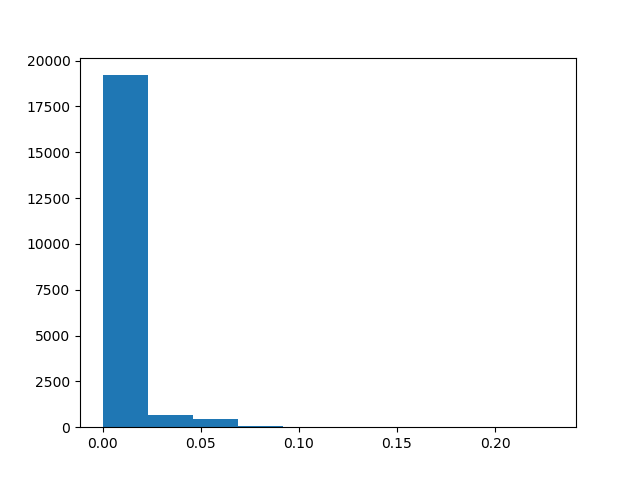
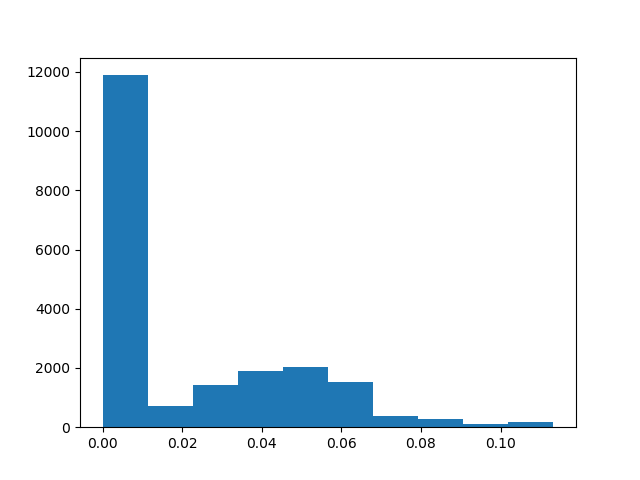
about page modification and changes to contact page

diff --git a/templates/about.html b/templates/about.html
@@ -60,19 +60,53 @@
   </div>
 </nav>
 
-<div style="height: 400px; width: 100%; margin-top:4vh; margin-bottom: 4vh; background: linear-gradient(rgba(0,0,0,0.2), rgba(0,0,0,.0)), url(https://images.unsplash.com/photo-1494506132334-19732cd53b32?ixlib=rb-1.2.1&ixid=eyJhcHBfaWQiOjEyMDd9&auto=format&fit=crop&w=1502&q=80); 	background-size: cover;
+<!-- <div style="height: 400px; width: 100%; margin-top:4vh; margin-bottom: 4vh; background: linear-gradient(rgba(0,0,0,0.2), rgba(0,0,0,.0)), url(https://images.unsplash.com/photo-1494506132334-19732cd53b32?ixlib=rb-1.2.1&ixid=eyJhcHBfaWQiOjEyMDd9&auto=format&fit=crop&w=1502&q=80); 	background-size: cover;
 	background-repeat: no-repeat;
 	background-attachment: scroll;
 	background-position: center;">
-</div>
+</div> -->
+
+<img src = "{{url_for('static', filename='English Copy of Procedure.png')}}" style="width: 100%
+;">
 
 <div class="container-fluid" style="position: relative;">
 	<div class="row">
 		<div class="col-md-12 col_with_bottom_margin_small">
-			<div style="font-size: 4vh" class="col_with_bottom_margin_small">What is ADAGE?</div>
-			<p>ADAGE, or ADaptive Analysis of Genomic Elements, is a method that uses promoter sequences and the chromosomal locations
-				of target genes to identify corresponding transcription factors, key genes that activate these target genes.
-			</p>
+			<b><div style="font-size: 4vh" class="col_with_bottom_margin_small">What is ADAGE?</div></b>
+
+			<p>ADAGE stands for ADaptive Analysis of Genetic Elements. ADAGE is an algorithm that identifies transcription factors or genes with analog biological functions.</p>
+
+			<b><div style="font-size: 4vh" class="col_with_bottom_margin_small">What is ADAGE used for?</div></b>
+
+			<p>Given an ensemble of related genes, ADAGE can predict potential transcription factors and genes with similar functions.</p>
+
+			<p>For instance, if we supply ADAGE a list of genes known to assist neuron regeneration, ADAGE returns a list of genes it believes to be transcription factors or genes related to neuron regeneration.</p>
+
+			<b><div style="font-size: 4vh" class="col_with_bottom_margin_small">What advantages does ADAGE offer over existing gene prediction algorithms such as BLAST, FASTA and HMMER?</div></b>
+
+			<p>BLAST, FASTA and HMMER are algorithms that are mostly based on sequence alignment and empirical knowledge of the human genome. These algorithms have multiple uses which include searching for homologous genes (related ancestry) and sequences in large databases.</p>
+
+			<p>ADAGE integrates machine learning (a subfield or Artificial Intelligence) to learn sequences and to match transcription factors to their target genes. It recognizes patterns in genetic concepts that may be invisible or unknown to human observers. Hence, ADAGE is an adaptive computational method that creates rules based on existing data from genetic sequences and TF research. This model can be updated in the wake of new scientific advancements.</p>
+
+			<b><div style="font-size: 4vh" class="col_with_bottom_margin_small">How does ADAGE work?</div></b>
+
+			<p>ADAGE is a gene prediction algorithm built on 2 models: a chromosomal location-based and a genetic sequence model.</p>
+
+			<p>The chromosomal location-based model assigns a probability to a candidate transcription factor gene based on the probability that a transcription factor and a target gene occur on those 2 chromosomes. In common terms, if Elton John was a target gene and the places he visits are transcription factor genes, the probability that Elton is on a concert stage is higher than him being in the Arctic.</p>
+
+			<p>The gene prediction model uses the promoter sequence (2000 base pairs before the start of the gene and 500 base pairs after) to predict the amino acid composition of the corresponding transcription factor protein. It does this by using a Convolutional Neural Network, a machine learning algorithm with numerous applications in image recognition and object detection. It quantifies the similarity between the 2 genes by using a method called cosine similarity. In simpler terms, if a target gene is a lock and the transcription factor its key, this model looks through a bag of keys to find the matching one for the lock. </p>
+
+			<p>These 2 models then assign a score for each gene.</p>
+
+			<b><div style="font-size: 4vh" class="col_with_bottom_margin_small">On what scientific principles is ADAGE built on?</div></b>
+
+			<p>ADAGE is built on the TRRUST v2 database of published transcription factor relationships.  ADAGE’s genetic sequence model creates rules based on the relationship between a target gene and its transcription factor. It does this by analyzing 2 genetic sequences, one (target gene) directly extracted from the Human Genome published by PubMed, and the other (TF) from the database of all proteins from the human genome.</p>
+
+
+			<b><div style="font-size: 4vh" class="col_with_bottom_margin_small">Contact</div></b>
+
+			<p>Do consult <a href="/contact">the contact page</a>.</p>
+
 		</div>
 	</div>
 </div>

diff --git a/templates/contact.html b/templates/contact.html
@@ -77,6 +77,7 @@
 		<div class="col-sm-6">
 				<p style="color:black">514-971-4848</p>
 				<p><a href="mailto:laurencel2001@gmail.com.ca" target="_top" style="color:black">laurencel2001@gmail.com</a></p>
+				<p><a href="https://laurenceliang.github.io" target="_blank">Website</a>  <a href="https://www.linkedin.com/in/laurence-liang-innovator/" target="_blank">LinkedIn</a> </p>
 
 		</div>
 	</div>

diff --git a/templates/hoverable_results.html b/templates/hoverable_results.html
@@ -36,6 +36,9 @@
 	<div id="content">	
 		<h1>Transcription Factor Prediction Form</h1>
 
+		<p>Here are the top 100 results that ADAGE returned for input target genes .</p>
+		<p>These genes either are potential transcription factors of the input target genes, or occupy similar biological functions.</p>
+
 		{{table_of_results|safe}}
 
 	<p>

diff --git a/app.py b/app.py
@@ -203,98 +203,55 @@ def results():
 
 	start = time.time()
 
-	for gene_name in user.list_of_target_genes:
-		# get gene position information from search
-		print(df_gene_locations_cleaned.shape)
-		print(gene_name)
-		gene_information_list = df_gene_locations_cleaned.loc[df_gene_locations_cleaned['gene name'] == gene_name]
-		print(gene_information_list)
-		print(gene_information_list.iloc[0]["chromosome"])
-		print(gene_information_list.iloc[0]["start"])
-		print(gene_information_list.iloc[0]["end"])
-		chromosome_index = int(gene_information_list.iloc[0]["chromosome"]-1)
-		print(chromosome_keys[chromosome_index])
+	try:
 
-		predictions_genes.append(one_hot_dna(gene_promoters_one_hot_dict[gene_name]))
-
-		user.add_gene_list(gene_information_list)		# add gene information to user object
-
-	predictions_genes = np.array(predictions_genes)
-	print("predictions_shape", predictions_genes.shape)
-	prediction = model.predict(predictions_genes.reshape(len(user.list_of_target_genes),1,2500,4))		# prediction is accurate
-
-	similarities = []
-	# locations_keys = list(locations.keys())
-
-	# used for counting
-	counter = 0
-	nb_gene = 0
-	num_aa = 0
-
-	print(user.run_with_ten_percent)
-
-	if not user.run_with_ten_percent:
-
-		# for gene prediction, gene name in submitted target genes
-		for gene, gene_name in zip(prediction,user.list_of_target_genes):
-
+		for gene_name in user.list_of_target_genes:
+			# get gene position information from search
+			print(df_gene_locations_cleaned.shape)
 			print(gene_name)
-			print(gene)
+			gene_information_list = df_gene_locations_cleaned.loc[df_gene_locations_cleaned['gene name'] == gene_name]
+			print(gene_information_list)
+			print(gene_information_list.iloc[0]["chromosome"])
+			print(gene_information_list.iloc[0]["start"])
+			print(gene_information_list.iloc[0]["end"])
+			chromosome_index = int(gene_information_list.iloc[0]["chromosome"]-1)
+			print(chromosome_keys[chromosome_index])
 
-			temp_row = []	# row with probabilities for each target gene
-			print(gene_name)
-			print(df_gene_locations_cleaned.loc[df_gene_locations_cleaned["gene name"] == gene_name])
-			print(int(df_gene_locations_cleaned.loc[df_gene_locations_cleaned["gene name"] == gene_name].iloc[0]['chromosome']))
-			target_gene_location = int(df_gene_locations_cleaned.loc[df_gene_locations_cleaned["gene name"] == gene_name].iloc[0]['chromosome'])
+			predictions_genes.append(one_hot_dna(gene_promoters_one_hot_dict[gene_name]))
 
-			for tf_gene_name, row in zip(list(protein_aa_frequencies_dict.keys()), list(protein_aa_frequencies_dict.values())):
-				if nb_gene%1000 == 0:
-					print(nb_gene)
-				if tf_gene_name in list(df_gene_locations_cleaned["gene name"].values):
-					cosine_score = cosine_similarity(gene, row)
-					# get tf gene location
-					tf_gene_location = int(df_gene_locations_cleaned.loc[df_gene_locations_cleaned["gene name"] == tf_gene_name].iloc[0]['chromosome'])
+			user.add_gene_list(gene_information_list)		# add gene information to user object
 
+		predictions_genes = np.array(predictions_genes)
+		print("predictions_shape", predictions_genes.shape)
+		prediction = model.predict(predictions_genes.reshape(len(user.list_of_target_genes),1,2500,4))		# prediction is accurate
 
-					if tf_gene_location > -1:
-						# print(cosine_similarity(gene, row))
-						# print(probability_matrix[target_gene_location-1][tf_gene_location-1])
-						# print()
-						temp_row.append(cosine_similarity(gene, row)*probability_matrix[target_gene_location-1][tf_gene_location-1])
-					else:
-						temp_row.append(0)
-				else:
-					temp_row.append(0)
-				nb_gene += 1
-			        
-			similarities.append(temp_row)
-		#         print(similarities)
+		similarities = []
+		# locations_keys = list(locations.keys())
 
-			counter += 1
-			num_aa += 1
+		# used for counting
+		counter = 0
+		nb_gene = 0
+		num_aa = 0
 
-	else:
-		# for gene prediction, gene name in submitted target genes
-		for gene, gene_name in zip(prediction,user.list_of_target_genes):
+		print(user.run_with_ten_percent)
 
-			print(gene_name)
-			print(gene)			# gene prediction is unaltered
+		if not user.run_with_ten_percent:
 
-			temp_row = []		# row with probabilities for each target gene
-			print("gene name", gene_name)
-			print("row output", df_gene_locations_cleaned.loc[df_gene_locations_cleaned["gene name"] == gene_name])
-			print("int of chromosome", int(df_gene_locations_cleaned.loc[df_gene_locations_cleaned["gene name"] == gene_name].iloc[0]['chromosome']))
-			target_gene_location = int(df_gene_locations_cleaned.loc[df_gene_locations_cleaned["gene name"] == gene_name].iloc[0]['chromosome'])
+			# for gene prediction, gene name in submitted target genes
+			for gene, gene_name in zip(prediction,user.list_of_target_genes):
 
+				print(gene_name)
+				print(gene)
 
-			for tf_gene_name, row in zip(list(protein_aa_frequencies_dict.keys()),list(protein_aa_frequencies_dict.values())):
-				random_seed = random.randrange(0,10)
-				if nb_gene%1000 == 0:
-					print("genes seen", nb_gene)
+				temp_row = []	# row with probabilities for each target gene
+				print(gene_name)
+				print(df_gene_locations_cleaned.loc[df_gene_locations_cleaned["gene name"] == gene_name])
+				print(int(df_gene_locations_cleaned.loc[df_gene_locations_cleaned["gene name"] == gene_name].iloc[0]['chromosome']))
+				target_gene_location = int(df_gene_locations_cleaned.loc[df_gene_locations_cleaned["gene name"] == gene_name].iloc[0]['chromosome'])
 
-				# if True:
-				if random_seed == 0:
-
+				for tf_gene_name, row in zip(list(protein_aa_frequencies_dict.keys()), list(protein_aa_frequencies_dict.values())):
+					if nb_gene%1000 == 0:
+						print(nb_gene)
 					if tf_gene_name in list(df_gene_locations_cleaned["gene name"].values):
 						cosine_score = cosine_similarity(gene, row)
 						# get tf gene location
@@ -304,85 +261,133 @@ def results():
 						if tf_gene_location > -1:
 							# print(cosine_similarity(gene, row))
 							# print(probability_matrix[target_gene_location-1][tf_gene_location-1])
-							# print(cosine_similarity(gene, row)*probability_matrix[target_gene_location-1][tf_gene_location-1])
 							# print()
-
-							# values are accurate
 							temp_row.append(cosine_similarity(gene, row)*probability_matrix[target_gene_location-1][tf_gene_location-1])
 						else:
 							temp_row.append(0)
 					else:
 						temp_row.append(0)
-				else:
-					temp_row.append(0)
+					nb_gene += 1
+				        
+				similarities.append(temp_row)
+			#         print(similarities)
 
-				nb_gene += 1
 				counter += 1
 				num_aa += 1
 
-					        
-			similarities.append(temp_row)
+		else:
+			# for gene prediction, gene name in submitted target genes
+			for gene, gene_name in zip(prediction,user.list_of_target_genes):
+
+				print(gene_name)
+				print(gene)			# gene prediction is unaltered
+
+				temp_row = []		# row with probabilities for each target gene
+				print("gene name", gene_name)
+				print("row output", df_gene_locations_cleaned.loc[df_gene_locations_cleaned["gene name"] == gene_name])
+				print("int of chromosome", int(df_gene_locations_cleaned.loc[df_gene_locations_cleaned["gene name"] == gene_name].iloc[0]['chromosome']))
+				target_gene_location = int(df_gene_locations_cleaned.loc[df_gene_locations_cleaned["gene name"] == gene_name].iloc[0]['chromosome'])
+
+
+				for tf_gene_name, row in zip(list(protein_aa_frequencies_dict.keys()),list(protein_aa_frequencies_dict.values())):
+					random_seed = random.randrange(0,10)
+					if nb_gene%1000 == 0:
+						print("genes seen", nb_gene)
+
+					# if True:
+					if random_seed == 0:
+
+						if tf_gene_name in list(df_gene_locations_cleaned["gene name"].values):
+							cosine_score = cosine_similarity(gene, row)
+							# get tf gene location
+							tf_gene_location = int(df_gene_locations_cleaned.loc[df_gene_locations_cleaned["gene name"] == tf_gene_name].iloc[0]['chromosome'])
+
+
+							if tf_gene_location > -1:
+								# print(cosine_similarity(gene, row))
+								# print(probability_matrix[target_gene_location-1][tf_gene_location-1])
+								# print(cosine_similarity(gene, row)*probability_matrix[target_gene_location-1][tf_gene_location-1])
+								# print()
+
+								# values are accurate
+								temp_row.append(cosine_similarity(gene, row)*probability_matrix[target_gene_location-1][tf_gene_location-1])
+							else:
+								temp_row.append(0)
+						else:
+							temp_row.append(0)
+					else:
+						temp_row.append(0)
+
+					nb_gene += 1
+					counter += 1
+					num_aa += 1
+
+						        
+				similarities.append(temp_row)
 
 
 
-	print("len temp row", len(temp_row))
-	print("len aa dict", num_aa)
+		print("len temp row", len(temp_row))
+		print("len aa dict", num_aa)
 
-	similarities = np.array(similarities).T			# similarities is accurate
-	print("length of similarities", similarities.shape)
+		similarities = np.array(similarities).T			# similarities is accurate
+		print("length of similarities", similarities.shape)
 
-	scores = []
-	raw_scores = []
+		scores = []
+		raw_scores = []
 
-	print(similarities)
-	print("|||")
+		print(similarities)
+		print("|||")
 
-	print("length of similarities" + str((len(similarities))) + ' ' + str(len(similarities[0])))
+		print("length of similarities" + str((len(similarities))) + ' ' + str(len(similarities[0])))
 
-	# for gene name, row of probabilities per transcription factor
-	for gene_name, row in zip(list(protein_aa_frequencies_dict.keys()), similarities): 
-		# print(gene_name)
-		temp_row = [gene_name, sum(row)/len(row)]
-		scores.append(temp_row)
-		raw_scores.append(temp_row[1])
+		# for gene name, row of probabilities per transcription factor
+		for gene_name, row in zip(list(protein_aa_frequencies_dict.keys()), similarities): 
+			# print(gene_name)
+			temp_row = [gene_name, sum(row)/len(row)]
+			scores.append(temp_row)
+			raw_scores.append(temp_row[1])
 
-	sorted_list = sorted(scores, key=lambda x: x[1], reverse=True)
-	top_100_sorted_list = sorted_list[:100]
-	print(top_100_sorted_list)
+		sorted_list = sorted(scores, key=lambda x: x[1], reverse=True)
+		top_100_sorted_list = sorted_list[:100]
+		print(top_100_sorted_list)
 
-	end = time.time()
+		end = time.time()
 
-	elapsed = end - start
+		elapsed = end - start
 
-	print(f"Elapsed time:{elapsed} seconds.")
+		print(f"Elapsed time:{elapsed} seconds.")
 
-	plt.hist(raw_scores)
-	plt.savefig("distribution.png")
-	plt.close()
+		plt.hist(raw_scores)
+		plt.savefig("distribution.png")
+		plt.close()
 
-	table_of_results = """		<table class="table table-hover">
-			<thead>
-				<th scope="col">Rank</th>
-				<th scope="col">Gene Name</th>
-				<th scope="col">Score</th>
-			</thead>
-			<tbody>"""
+		table_of_results = """		<table class="table table-hover">
+				<thead>
+					<th scope="col">Rank</th>
+					<th scope="col">Gene Name</th>
+					<th scope="col">Score</th>
+				</thead>
+				<tbody>"""
 
-	table_row_counter = 0
-	for row in top_100_sorted_list:
-		table_row_counter += 1
-		row_string = f"""    <tr>
-		<th scope="row">{table_row_counter}</th>
-		<td><a target="_blank" href="https://www.ncbi.nlm.nih.gov/gene/?term={row[0]}">{row[0]}</a></td>
-		<td>{row[1]}</td>
-		</tr>"""
-		table_of_results += row_string
+		table_row_counter = 0
+		for row in top_100_sorted_list:
+			table_row_counter += 1
+			row_string = f"""    <tr>
+			<th scope="row">{table_row_counter}</th>
+			<td><a target="_blank" href="https://www.ncbi.nlm.nih.gov/gene/?term={row[0]}">{row[0]}</a></td>
+			<td>{row[1]}</td>
+			</tr>"""
+			table_of_results += row_string
 
-	table_of_results = table_of_results + """</tbody>
-		</table>"""
+		table_of_results = table_of_results + """</tbody>
+			</table>"""
 
 
-	return render_template("hoverable_results.html", table_of_results=table_of_results, elapsed_time=elapsed)
+		return render_template("hoverable_results.html", table_of_results=table_of_results, elapsed_time=elapsed)
+
+	except KeyError:
+		return "You entered a gene that isn't yet included in this database. Please contact Laurence at https://adage.herokuapp.com/contact"
 
 
 @app.route('/contact')
